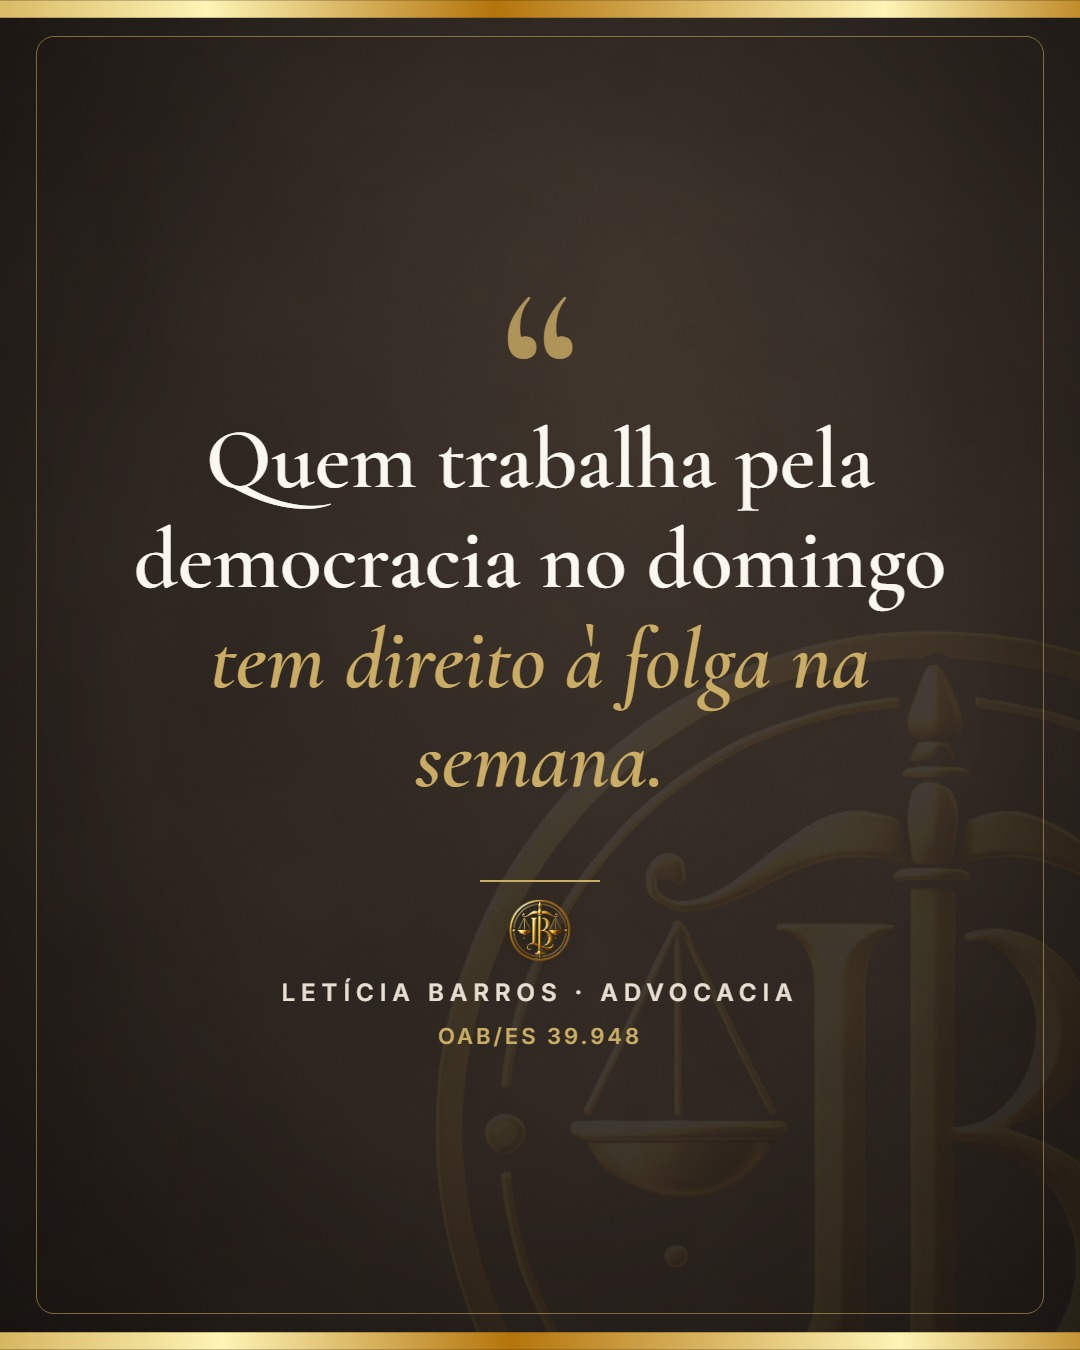
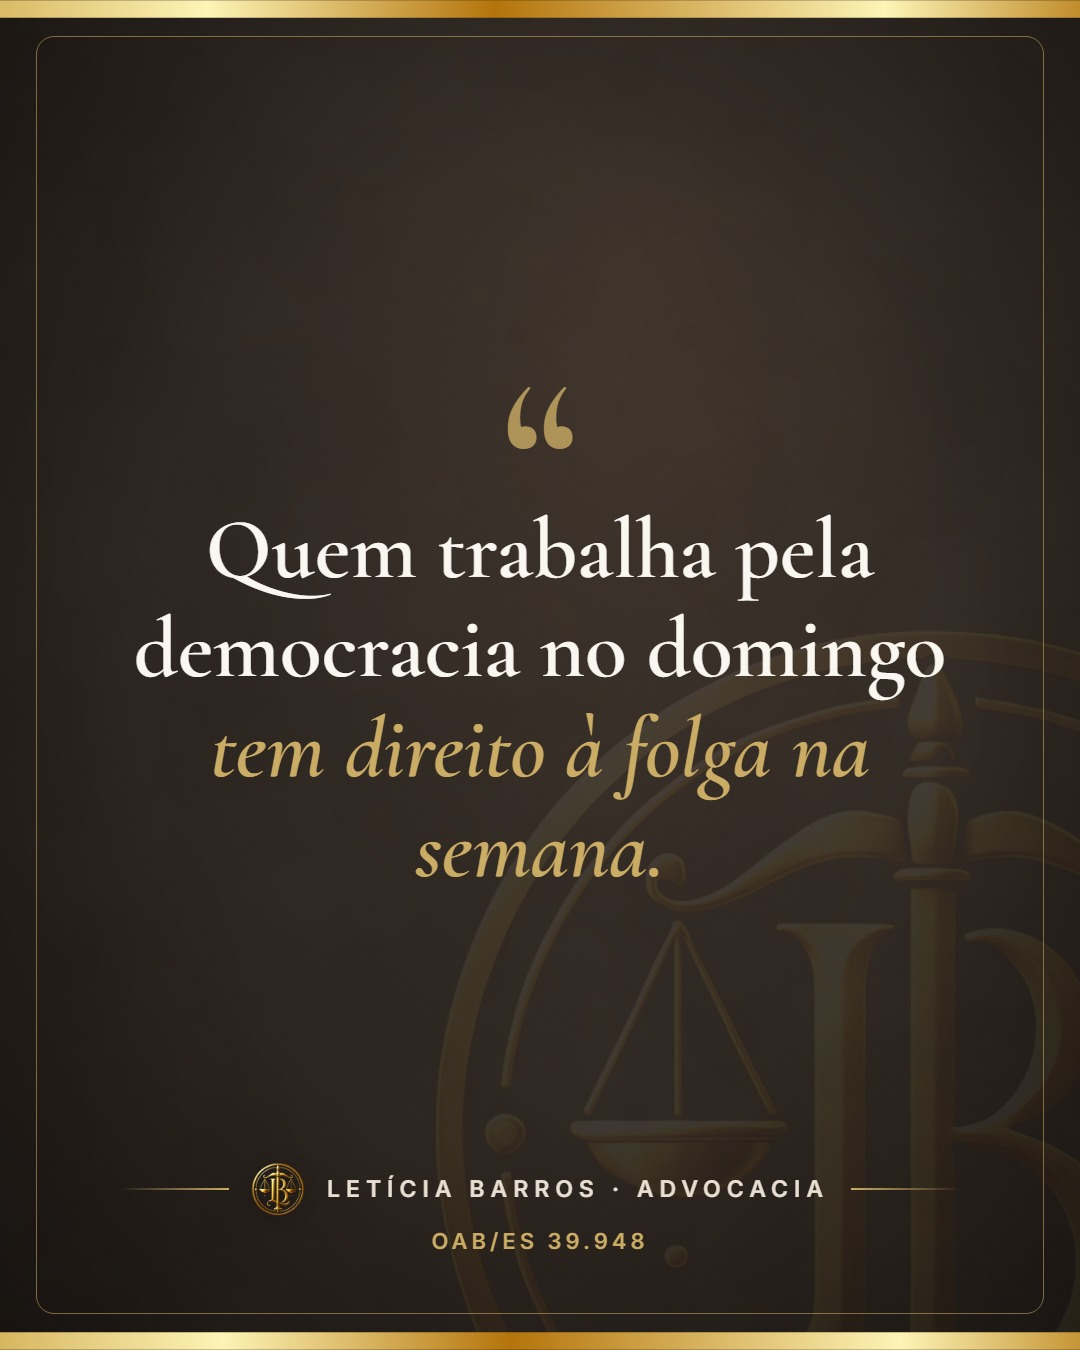
feat(arte): assinatura da frase ancorada no rodapé com fios dourados

Changed region(s): [[0.1222, 0.2178, 0.8861, 0.5911], [0.275, 0.6222, 0.7333, 0.7778], [0.2139, 0.84, 0.7639, 0.9333]]

diff --git a/apps/api/app/templates/frase_impacto.html b/apps/api/app/templates/frase_impacto.html
@@ -47,11 +47,15 @@
   }
   .frase em { font-style: italic; color: {{ dourado }}; }
 
-  .assinatura { margin-top: 70px; display: flex; flex-direction: column; align-items: center; gap: 16px; }
-  .fio { width: 120px; height: 2px; background: {{ dourado }}; }
-  .assinatura img { width: 64px; height: 64px; object-fit: contain; filter: drop-shadow(0 2px 8px rgba(0,0,0,.4)); }
-  .assinatura .nome { font-size: 24px; font-weight: 600; letter-spacing: 6px; text-transform: uppercase; color: {{ areia }}; }
-  .assinatura .oab { font-size: 22px; font-weight: 600; letter-spacing: 3px; color: {{ dourado }}; }
+  .conteudo { margin-top: -60px; }
+  .assinatura { position: absolute; left: 0; right: 0; bottom: 96px; z-index: 4;
+    display: flex; flex-direction: column; align-items: center; gap: 12px; }
+  .linha-ass { display: flex; align-items: center; gap: 22px; }
+  .fio { width: 110px; height: 1.5px; background: linear-gradient(90deg, transparent, {{ dourado }}); }
+  .fio.dir { background: linear-gradient(90deg, {{ dourado }}, transparent); }
+  .assinatura img { width: 54px; height: 54px; object-fit: contain; filter: drop-shadow(0 2px 8px rgba(0,0,0,.4)); }
+  .assinatura .nome { font-size: 23px; font-weight: 600; letter-spacing: 6px; text-transform: uppercase; color: {{ areia }}; }
+  .assinatura .oab { font-size: 22px; font-weight: 600; letter-spacing: 4px; color: {{ dourado }}; }
 </style>
 </head>
 <body>
@@ -62,12 +66,10 @@
     <div class="conteudo">
       <div class="aspas">&ldquo;</div>
       <p class="frase">{{ frase|safe }}</p>
-      <div class="assinatura">
-        <div class="fio"></div>
-        <img src="{{ logo_src }}" alt="{{ nome_conta }}">
-        <span class="nome">{{ nome_conta }} · Advocacia</span>
-        <span class="oab">{{ oab }}</span>
-      </div>
+    </div>
+    <div class="assinatura">
+      <div class="linha-ass"><div class="fio"></div><img src="{{ logo_src }}" alt="{{ nome_conta }}"><span class="nome">{{ nome_conta }} · Advocacia</span><div class="fio dir"></div></div>
+      <span class="oab">{{ oab }}</span>
     </div>
     <div class="grao"></div>
   </div>
